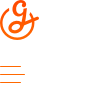
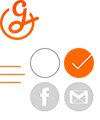
신청 확인

diff --git a/public/html/parties_new.html b/public/html/parties_new.html
@@ -1,0 +1,195 @@
+<!DOCTYPE html>
+<html>
+<head>
+    <title>Ggida</title>
+    <meta name="viewport" content="width=device-width, initial-scale=1">
+    <meta name="csrf-param" content="authenticity_token" />
[1 lines of base64/hex data omitted]
+    <link rel="stylesheet" media="all" href="/assets/application.self-7c41cca53f8c9115cf8a7ad2a5d243e61112bbca5f127ba9b5af3161903a5c0d.css?body=1" data-turbolinks-track="reload" />
+    <script src="/assets/jquery.self-bd7ddd393353a8d2480a622e80342adf488fb6006d667e8b42e4c0073393abee.js?body=1" data-turbolinks-track="reload"></script>
+    <script src="/assets/jquery_ujs.self-784a997f6726036b1993eb2217c9cb558e1cbb801c6da88105588c56f13b466a.js?body=1" data-turbolinks-track="reload"></script>
+    <script src="/assets/turbolinks.self-c5acd7a204f5f25ce7a1d8a0e4d92e28d34c9e2df2c7371cd7af88e147e4ad82.js?body=1" data-turbolinks-track="reload"></script>
+    <script src="/assets/action_cable.self-17ebe4af84895fa064a951f57476799066237d7bb5dc4dc351a8b01cca19cce9.js?body=1" data-turbolinks-track="reload"></script>
+    <script src="/assets/cable.self-6e0514260c1aa76eaf252412ce74e63f68819fd19bf740595f592c5ba4c36537.js?body=1" data-turbolinks-track="reload"></script>
+    <script src="/assets/home.self-19a187bec6cdb96d6de80a61c16c857c613536adf9138476bd367db38d282635.js?body=1" data-turbolinks-track="reload"></script>
+    <script src="/assets/application.self-b89234cf2659d7fedea75bca0b8d231ad7dfc2f3f57fcbaf5f44ed9dc384137b.js?body=1" data-turbolinks-track="reload"></script>
+</head>
+
+<body>
+<div id="kakaoIndex">
+    <a href="#kakaoBody">본문 바로가기</a>
+    <a href="#kakaoGnb">메뉴 바로가기</a>
+</div>
+<div id="ggidaWrap" class="cont_sub">
+    <div id="ggidaHead" class="ggida_head " role="banner"> <!-- box_visual 영역 사라지면 fixed_head 클래스 추가-->
+        <div class="inner_head">
+            <h1 class="screen_out">끼니를 다함께</h1>
+            <a href="javascript:;" class="btn_ggida btn_navi"><span class="ico_ggida ico_navi">메뉴열기</span></a>
+            <div id="ggidaGnb" role="navigation">
+                <h2 class="screen_out">끼다 메인메뉴</h2>
+                <ul class="gnb_ggida">
+                    <li><a href="#none" class="link_gnb">HOME</a></li>
+                    <li><a href="#none" class="link_gnb">모임개설신청</a></li>
+                    <li><a href="#none" class="link_gnb">끼다소개</a></li>
+                    <li><a href="#none" class="link_gnb">사용안내</a></li>
+                    <li><a href="#none" class="link_gnb">문의하기</a></li>
+                </ul>
+                <button type="button" class="btn_ggida btn_close"><span class="ico_ggida ico_close">메뉴 닫기</span></button>
+            </div>
+        </div>
+    </div>  <!-- //header-->
+
+    <div id="ggidaContent" role="main">
+        <div id="cMain">
+            <div id="mFeature">
+                <div class="side_menu navi_on" style="display:none;left:-1000px"> <!-- navi_on -->
+                    <ul class="gnb_ggida">
+                        <li><a href="#none" class="link_gnb">HOME</a></li>
+                        <li><a href="#none" class="link_gnb">모임개설신청</a></li>
+                        <li><a href="#none" class="link_gnb">끼다소개</a></li>
+                        <li><a href="#none" class="link_gnb">사용안내</a></li>
+                        <li><a href="#none" class="link_gnb">문의하기</a></li>
+                    </ul>
+                    <button type="button" class="btn_ggida btn_close"><span class="ico_ggida ico_close">메뉴 닫기</span></button>
+                </div>
+            </div>
+            <div id="mArticle">
+                <div class="box_g box_written">
+                    <h2 class="tit_sub">모임 개설 신청</h2>
+                    <form method="POST" action="/parties" enctype="multipart/form-data">
+                        <fieldset>
+                            <legend class="screen_out">모임 개설 신청 내용 입력폼</legend>
+                            <div class="thumb_g thumb_upload">
+                                <img src="/images/m640/thumb_temp.png" class="thumb_img" alt="">
+                                <span class="item_upload">
+                                  <label for="upload" class="lab_comm" ><span class="ico_ggida ico_upload"></span></label>
+                                  <input id="upload" type="file" name="party[images]" class="inp_comm inp_upload" >
+                                </span>
+                            </div>
+                            <ul class="list_writte">
+                                <li>
+                                    <div class="item_inp inp_type1"><label for="" class="lab_weite" >이름</label> <span class="cell_inp"><input id="" type="text" class="inp_weite" placeholder="이름 입력"/></span></div>
+                                    <div class="item_inp inp_type2"><label for="" class="lab_weite" >핸드폰번호</label> <span class="cell_inp"><input id="" type="text" class="inp_weite" placeholder="000-0000-0000"/></span></div>
+                                </li>
+                                <li>
+                                    <div class="item_inp "><label for="" class="lab_weite" >EMAIL</label> <span class="cell_inp"><input id="" type="text" class="inp_weite" placeholder="이메일을 입력하세요"/></span></div>
+                                </li>
+                                <li>
+                                    <div class="item_inp "><label for="" class="lab_weite" >모임명</label> <span class="cell_inp"><input id="" type="text" name="party[title]" class="inp_weite" placeholder="모임명을 입력하세요"/></span></div>
+                                </li>
+                                <li>
+                                    <div class="item_inp ">
+                                        <label for="" class="lab_weite" >모임장소</label>
+                                        <div class="cell_inp">
+                                            <span class="txt_label">모임 장소를 선택하세요.</span> <!-- select 포커스시 display:none -->
+                                            <select name="place" class="inp_weite">
+                                                <option value=""></option>
+                                                <option value="청춘플랫폼">청춘플랫폼</option>
+                                                <option value="무중력지대 대방동 나눔부엌">무중력지대 대방동 나눔부엌</option>
+                                                <option value="춘삘딩 공유주방">청춘삘딩 공유주방</option>
+                                                <option value="청년허브 창문카페">청년허브 창문카페</option>
+                                                <option value="동팟 Sunday Kitchen">강동팟 Sunday Kitchen</option>
+                                            </select>
+                                        </div>
+                                    </div>
+                                </li>
+                                <li>
+                                    <div class="item_inp inp_type3">
+                                        <label for="" class="lab_weite" >모임소개</label>
+                                        <span class="cell_inp">
+                                          <textarea class="inp_cmt" id="comment" name="comment" placeholder="모임내용에 대해 설명해주세요. (최대 ??자)"></textarea>
+                                        </span>
+                                    </div>
+                                </li>
+                                <li>
+                                    <div class="item_inp ">
+                                        <label for="" class="lab_weite" >모임유형</label>
+                                        <div class="cell_inp">
+                                            <span class="txt_label">모임 장소를 선택하세요.</span> <!-- select 포커스시 display:none -->
+                                            <select name="place" class="inp_weite">
+                                                <option value=""></option>
+                                                <option value="함께 장보고 요리하기">함께 장보고 요리하기</option>
+                                                <option value="참여자가 각자 식재료 구매하고 함께 요리하기">참여자가 각자 식재료 구매하고 함께 요리하기</option>
+                                                <option value="모임개설자가 식재료 구매하고 함께 요리하기">모임개설자가 식재료 구매하고 함께 요리하기</option>
+                                                <option value="기타유형">기타유형</option>
+                                            </select>
+                                        </div>
+                                    </div>
+                                </li>
+                                <li>
+                                    <div class="item_inp inp_type6">
+                                        <label for="" class="lab_weite" >모임일정</label>
+                                        <div class="cell_inp">
+                                            <input type="text" id="datepicker1" class="inp_weite" placeholder="모임일 지정 ">
+                                        </div>
+                                        <div class="cell_inp">
+                                            <input type="text" id="datepicker2" class="inp_weite" placeholder="모임시간 지정 ">
+                                        </div>
+                                    </div>
+                                    <link rel="stylesheet" href="//code.jquery.com/ui/1.12.1/themes/base/jquery-ui.css">
+                                    <script src="https://code.jquery.com/ui/1.12.1/jquery-ui.js"></script>
+                                    <script>
+                                        $( function() {
+                                            $( "#datepicker" ).datepicker();
+                                        } );
+                                    </script>
+                                </li>
+                                <li>
+                                    <div class="item_inp inp_type4">
+                                        <label for="" class="lab_weite" >최소인원</label><div class="cell_inp"><input type="number" id="datepicker" class="inp_weite" placeholder="0명"></div>
+                                    </div>
+                                    <div class="item_inp inp_type4">
+                                        <label for="" class="lab_weite" >최대인원</label><div class="cell_inp"><input type="number" id="datepicker" class="inp_weite" placeholder="0명"></div>
+                                    </div>
+                                    <div class="item_inp inp_type5">
+                                        <label for="" class="lab_weite" >참가비</label><div class="cell_inp"><input type="number" id="datepicker" class="inp_weite" placeholder="0원"></div>
+                                    </div>
+                                </li>
+                            </ul>
+                            <ul class="wrap_button"> 
+                                <li><a class="btn_round btn_submit">신청</a></li>
+                                <li><a class="btn_round btn_cancel">취소</a></li>
+                            </ul>
+                        </fieldset>
+                    </form>
+                </div>
+            </div>
+        </div>
+        <div class="cEtc"></div>
+    </div> <!-- //ggidaContent -->
+
+    <div id="ggidaFoot"></div> <!-- //Footer -->
+</div>
+<script type="text/javascript">
+    $(document).ready(function() {
+        var Header = (function() {
+            var elem = $("#ggidaHead");
+            var opener = elem.find(".btn_navi");
+            var closeButton = elem.find(".btn_close");
+            var navigator = elem.find("#ggidaGnb");
+            var logoutButton = elem.find(".btn_logout");
+            (function init() {
+                opener.click(function() {
+                    navigator.show();
+                });
+                closeButton.click(function() {
+                    navigator.hide();
+                });
+                logoutButton.click(function() {
+                    $.ajax( {
+                        url: '/managers/sign_out',
+                        type: 'DELETE',
+                        success: function(result) {
+                            window.location.href = "/managers/sign_in";
+                        },
+                        error: function(error) {
+                            console.log(error);
+                        }
+                    });
+                });
+            })();
+        })();
+    });
+</script>
+</body>
+</html>

diff --git a/app/assets/stylesheets/common.css b/app/assets/stylesheets/common.css
@@ -97,6 +97,9 @@ address,caption,cite,code,dfn,em,var{font-style:normal;font-weight:normal}
 .inp_type4 .cell_inp{margin-right:12px}
 .inp_type5{float:right;width:51.4%}
 .inp_type5 .inp_weite{margin-right:5px;text-align:right}
+.inp_type6 .cell_inp{float:left;width:38%}
+.inp_type6 .cell_inp:nth-of-type(2){float:right}
+
 .list_writte li{overflow:hidden}
 .btn_round{display:block;height:32px;padding-top:16px;border:1px solid #ff6800;border-radius:44px;font-size:16px;line-height:18px;color:#ff6800;text-align:center}
 .btn_round.btn_submit{background-color:#ff6800;color:#fff}
@@ -105,7 +108,7 @@ button.btn_round{height:50px;padding-top:4px}
 .wrap_button{overflow:hidden;margin:42px 0px 33px;font-size:0}
 .wrap_button li{float:left;width:50%}
 .wrap_button li:first-child{float:right}
-.wrap_button .btn_cancle{margin-right:8px}
+.wrap_button .btn_cancel{margin-right:8px}
 .wrap_button .btn_submit{margin-left:8px}
 
 /* 메인 홈_탑 비주얼 영역 */
@@ -159,10 +162,22 @@ button.btn_round{height:50px;padding-top:4px}
 .info_kitchen .tit_kitchen{display:block;overflow:hidden;font-weight:500;font-size:17px;line-height:20px;color:#444;letter-spacing:1.3px}
 .info_kitchen .txt_kitchen{display:block;overflow:hidden;margin-top:9px;font-weight:200;font-size:15px;line-height:19px;color:#7c7c7c;letter-spacing:1px}
 
+.layer_ggida{position:absolute;top:0;left:0;width:100%;height:100%}
+.layer_ggida .overlay{display:block;width:100%;height:100%;z-index:10;background:rgba(0,0,0,.5)}
+.layer_ggida .inner_layer{position:absolute;left:0;bottom:0;width:100%;z-index:20;background:#f5f5f5;transform:translateZ(0)}
+.layer_ggida .tit_layer{display:block;padding-bottom:14px;font-weight:normal;font-size:22px;line-height:27px;text-align:center}
+.layer_ggida .tit_layer .emph_g{display:block;margin:25px 0 4px;font-size:16px;line-height:19px}
+.layer_ggida .box_written{overflow-y:scroll;-webkit-overflow-scrolling:touch}
+.wrap_button2{overflow:hidden;margin:0 32px 0;border-top:1px solid #999}
+.wrap_button2 .btn_layer{display:block;width:50%;padding:25px 0 26px;font-size:16px;line-height:19px;text-align:center}
+.wrap_button2 .btn_cancel{position:relative;color:#444}
+.wrap_button2 .btn_submit{float:right;color:#ff6800}
 
-
-
-
+.wrap_check{position:relative;margin:32px 0;text-align:right}
+.wrap_check .input_check {position:absolute;top:0;left:0;width:0;height:0;line-height:0;opacity:0;filter:alpha(opacity=0)}
+.wrap_check .lab_check{display:inline-block;font-size:16px;line-height:32px;color:#444}
+.wrap_check .ico_check {width:30px;height:30px;margin-left:16px;background-position:-30px -48px}
+.wrap_check.check .ico_check{background-position:-64px -48px}
 
 @media
 only screen and (max-width: 768px) {
@@ -173,7 +188,10 @@ only screen and (max-width: 768px) {
     .side_menu .btn_close {position:absolute;right:0;top:0;width:39px;height:50px}
 }
 
-
+@media
+only screen and (min-width:320px) and (max-width:359px) {
+	.layer_ggida .box_written{height:310px}
+}
 @media
 only screen and (max-device-height:480px) {
     .gnb_ggida li{margin-top:30px}
@@ -187,5 +205,5 @@ only screen and (max-device-height:480px) {
 only screen and (-webkit-min-device-pixel-ratio:2),
 only screen and (min-device-pixel-ratio:2),
 only screen and (min-resolution:2dppx) {
-    .ico_ggida{background-image:url(/images/m640/ico_ggida.png);-webkit-background-size:100px 100px;background-size:100px 100px}
+    .ico_ggida{background-image:url(/images/m640/ico_ggida.png);-webkit-background-size:100px 120px;background-size:100px 120px}
 }

diff --git a/public/html/invite.html b/public/html/invite.html
@@ -73,12 +73,12 @@
 							혼자 집에서 식사하지 마시고 같이 식사하면서 요리 레시피도 서로 공유해봐요 :)
 						</div>
 						<ul class="list_invite">
-	                        <li><em class="em_txt" >일자 </em>17.02.28 오후 6시</li>
-	                        <li><em class="em_txt" >모집인원 </em>최대 8명</li>
-	                        <li><em class="em_txt" >참가비 </em>10,000원</li>
-	                        <li><em class="em_txt" >핸드폰번호 </em>010-0000-0000</li>
-	                        <li><em class="em_txt" >이메일 </em>ggida@mail.com</li>
-	                        <li><em class="em_txt" >일자</em>17.02.28 오후 6시</li>
+	                        <li><em class="em_txt">일자 </em>17.02.28 오후 6시</li>
+	                        <li><em class="em_txt">모집인원 </em>최대 8명</li>
+	                        <li><em class="em_txt">참가비 </em>10,000원</li>
+	                        <li><em class="em_txt">핸드폰번호 </em>010-0000-0000</li>
+	                        <li><em class="em_txt">이메일 </em>ggida@mail.com</li>
+	                        <li><em class="em_txt">일자</em>17.02.28 오후 6시</li>
 	                    </ul>
 	                    <div class="info_kitchen">
 	                    	<img src="/images/m640/logo_kitchen_03.png" class="thumb_logo" alt="청춘삘-딩">
@@ -86,6 +86,30 @@
 	                    	<span class="txt_kitchen">서울특별시 금천구 시흥대로 138길 10-11 (08545)</span>
 	                    </div>
 	                    <a class="btn_round btn_submit">신청하기</a></li>
+					</div>
+					<div class="layer_ggida">
+						<div class="overlay"></div>
+						<div class="inner_layer">
+							<div class="box_written">
+								<strong class="tit_layer"><em class="emph_g">모임명 </em>채식요리 같이 만들어요!</strong>
+	                            <ul class="list_writte">
+	                                <li>
+	                                    <div class="item_inp "><label for="" class="lab_weite" >이름</label> <span class="cell_inp"><input id="" type="text" class="inp_weite" placeholder="이름을 입력하세요"/></span></div>
+	                                    <div class="item_inp "><label for="" class="lab_weite" >핸드폰번호</label> <span class="cell_inp"><input id="" type="text" class="inp_weite" placeholder="000-0000-0000"/></span></div>
+	                                    <div class="item_inp "><label for="" class="lab_weite" >이메일</label> <span class="cell_inp"><input id="" type="text" class="inp_weite" placeholder="이메일을 입력하세요"/></span></div>
+	                                </li>
+								</ul>
+								<div class="wrap_check check"> <!-- focus 시 .check 추가 -->
+				                    <input id="checkAgree" name="checkAgree" type="checkbox" class="input_check">
+				                    <label for="checkAgree" class="lab_check">개인정보제공에 동의합니다.<span class="ico_ggida ico_check"></span></label>
+				                </div>
+							</div>
+							<div class="wrap_button2"> 
+                                <a class="btn_layer btn_submit">신청</a>
+                                <a class="btn_layer btn_cancel">취소</a>
+                            </div>
+						</div>
+						<script> $("body").css({overflow:'hidden'}).bind('touchmove', function(e){e.preventDefault()}); </script>
 					</div>
                 </div>
             </div>
